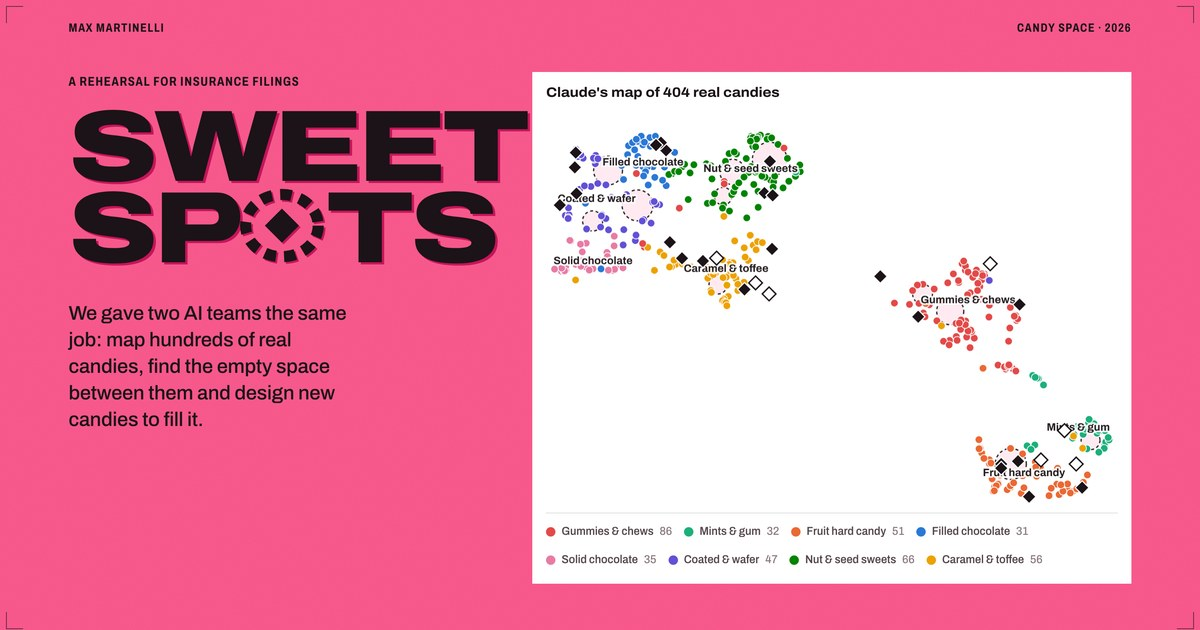
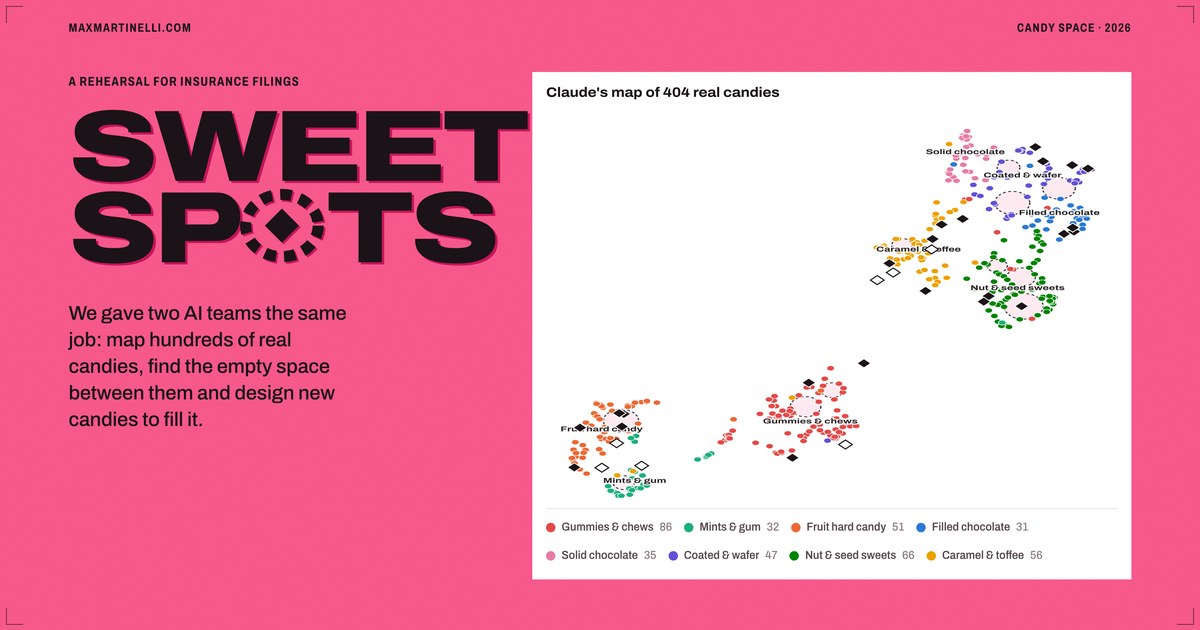
Sweet Spots: remove author name from page and preview image

diff --git a/public/sweet-spots/index.html b/public/sweet-spots/index.html
@@ -5,7 +5,7 @@
 <meta name="viewport" content="width=device-width, initial-scale=1, viewport-fit=cover">
 <meta name="theme-color" content="#1b1310">
 <link rel="canonical" href="https://maxmartinelli.com/sweet-spots/">
-<meta property="og:site_name" content="Max Martinelli">
+<meta property="og:site_name" content="maxmartinelli.com">
 <meta property="og:title" content="Sweet Spots">
 <meta property="og:description" content="Claude and OpenAI's Codex each mapped hundreds of real candies, found the empty space between them and designed new candies to fill it: a rehearsal for insurance filings.">
 <meta property="og:type" content="article">
@@ -426,7 +426,7 @@ noscript p{padding-block:16px;color:var(--ink-3)}
 <header class="hero gut">
   <span class="crop k-tl" aria-hidden="true"></span><span class="crop k-tr" aria-hidden="true"></span><span class="crop k-bl" aria-hidden="true"></span><span class="crop k-br" aria-hidden="true"></span>
   <div class="w">
-    <nav class="top" aria-label="Site"><a href="/">Max Martinelli</a><span>Candy space · 2026</span></nav>
+    <nav class="top" aria-label="Site"><a href="/">maxmartinelli.com</a><span>Candy space · 2026</span></nav>
     <div class="hero-grid">
       <div class="hero-t">
         <p class="hero-tag">A rehearsal for insurance filings</p>
@@ -741,7 +741,7 @@ noscript p{padding-block:16px;color:var(--ink-3)}
       <div><h3>The renderings</h3><p>Product images generated with ChatGPT from each team's written specs. Concept visualizations, not photographs of real products.</p></div>
       <div><h3>The fine print</h3><p>Real candy names describe the catalog only; no affiliation is implied. New candy names are working names and have not been cleared.</p></div>
     </div>
-    <div class="sig"><div><b>Max Martinelli</b><br><span>Sweet Spots · 2026</span></div><div class="code"><svg id="barcode" role="img" aria-label="Barcode drawn from the 60 new candies"></svg><p>The barcode is the 60 new candies: one bar each, wider when lonelier. Claude's 30 on the left and Codex's 30 on the right, each on its own ruler.</p></div></div>
+    <div class="sig"><div><b>Sweet Spots</b><br><span>maxmartinelli.com · 2026</span></div><div class="code"><svg id="barcode" role="img" aria-label="Barcode drawn from the 60 new candies"></svg><p>The barcode is the 60 new candies: one bar each, wider when lonelier. Claude's 30 on the left and Codex's 30 on the right, each on its own ruler.</p></div></div>
   </div>
 </footer>
 

diff --git a/static/sweet-spots/index.html b/static/sweet-spots/index.html
@@ -5,7 +5,7 @@
 <meta name="viewport" content="width=device-width, initial-scale=1, viewport-fit=cover">
 <meta name="theme-color" content="#1b1310">
 <link rel="canonical" href="https://maxmartinelli.com/sweet-spots/">
-<meta property="og:site_name" content="Max Martinelli">
+<meta property="og:site_name" content="maxmartinelli.com">
 <meta property="og:title" content="Sweet Spots">
 <meta property="og:description" content="Claude and OpenAI's Codex each mapped hundreds of real candies, found the empty space between them and designed new candies to fill it: a rehearsal for insurance filings.">
 <meta property="og:type" content="article">
@@ -426,7 +426,7 @@ noscript p{padding-block:16px;color:var(--ink-3)}
 <header class="hero gut">
   <span class="crop k-tl" aria-hidden="true"></span><span class="crop k-tr" aria-hidden="true"></span><span class="crop k-bl" aria-hidden="true"></span><span class="crop k-br" aria-hidden="true"></span>
   <div class="w">
-    <nav class="top" aria-label="Site"><a href="/">Max Martinelli</a><span>Candy space · 2026</span></nav>
+    <nav class="top" aria-label="Site"><a href="/">maxmartinelli.com</a><span>Candy space · 2026</span></nav>
     <div class="hero-grid">
       <div class="hero-t">
         <p class="hero-tag">A rehearsal for insurance filings</p>
@@ -741,7 +741,7 @@ noscript p{padding-block:16px;color:var(--ink-3)}
       <div><h3>The renderings</h3><p>Product images generated with ChatGPT from each team's written specs. Concept visualizations, not photographs of real products.</p></div>
       <div><h3>The fine print</h3><p>Real candy names describe the catalog only; no affiliation is implied. New candy names are working names and have not been cleared.</p></div>
     </div>
-    <div class="sig"><div><b>Max Martinelli</b><br><span>Sweet Spots · 2026</span></div><div class="code"><svg id="barcode" role="img" aria-label="Barcode drawn from the 60 new candies"></svg><p>The barcode is the 60 new candies: one bar each, wider when lonelier. Claude's 30 on the left and Codex's 30 on the right, each on its own ruler.</p></div></div>
+    <div class="sig"><div><b>Sweet Spots</b><br><span>maxmartinelli.com · 2026</span></div><div class="code"><svg id="barcode" role="img" aria-label="Barcode drawn from the 60 new candies"></svg><p>The barcode is the 60 new candies: one bar each, wider when lonelier. Claude's 30 on the left and Codex's 30 on the right, each on its own ruler.</p></div></div>
   </div>
 </footer>
 
